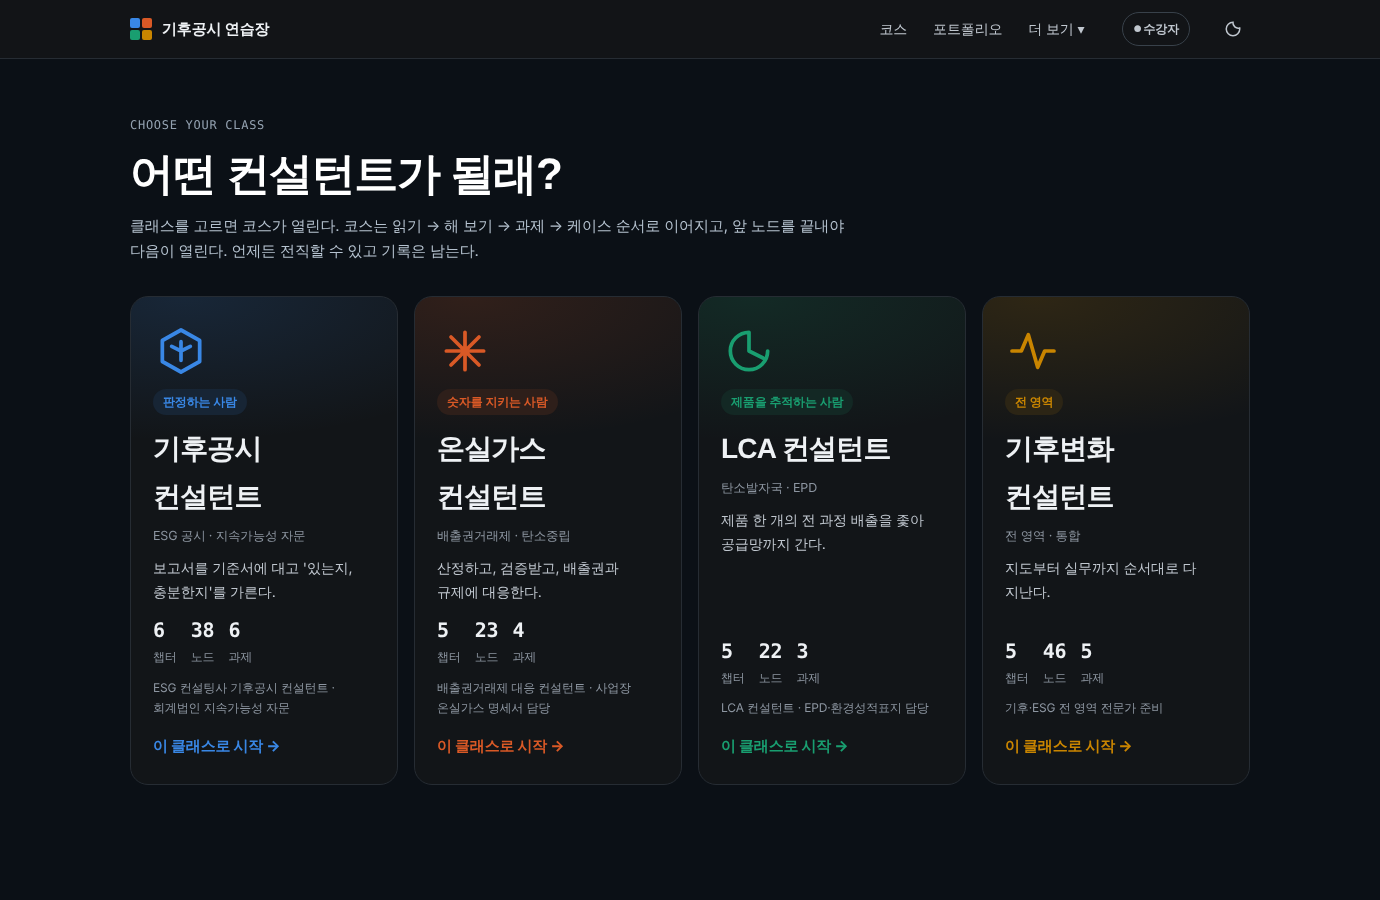
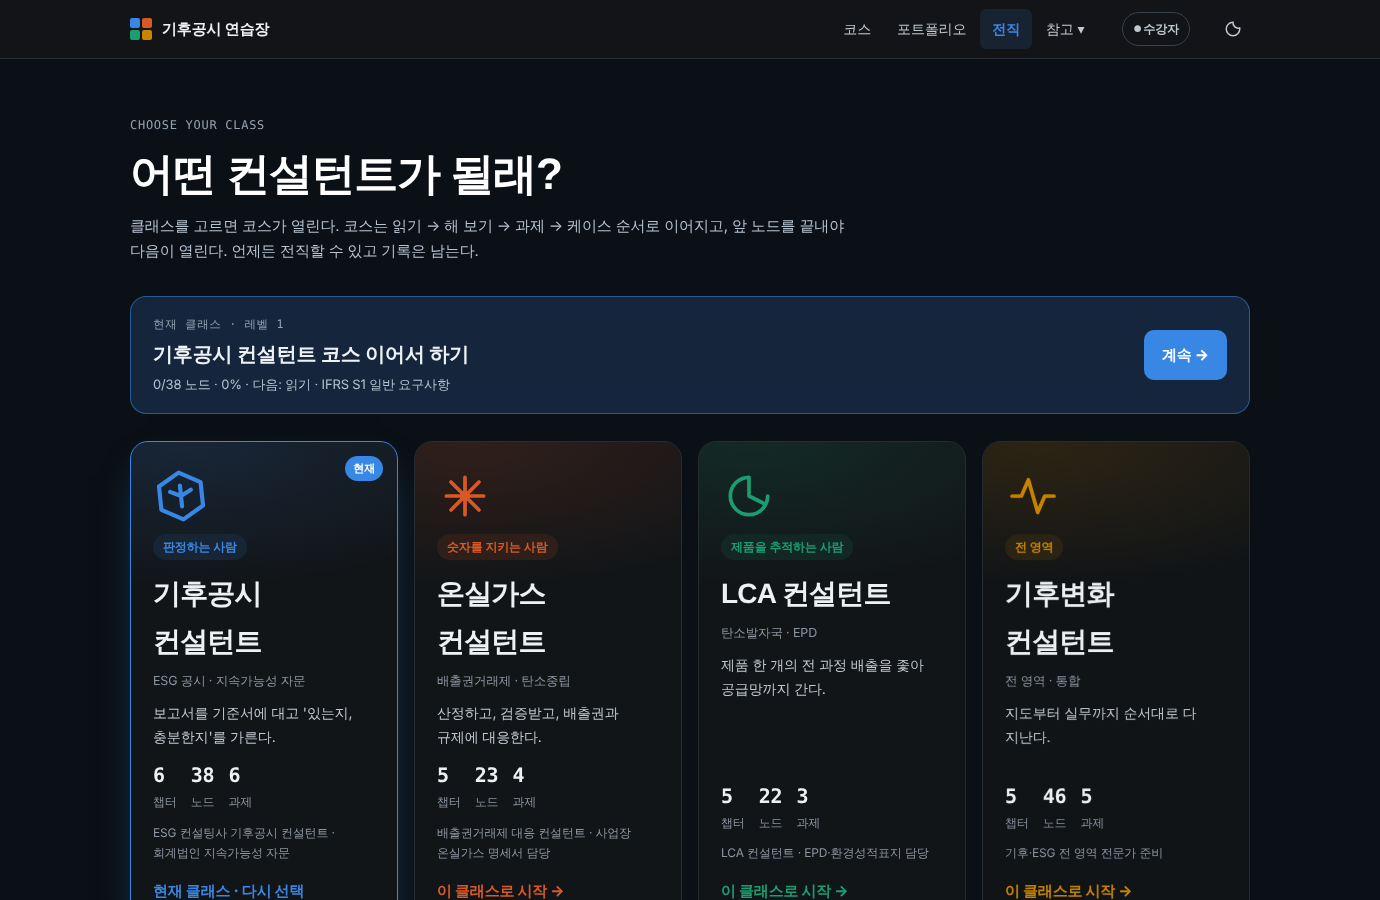
타이틀 화면: 매 실행마다 전직 화면부터, 현재 클래스 '이어서 하기' 배너, 테마 1회 다크 리셋
Claude-Session: https://claude.ai/code/session_01QfzZerYVY9dHF8QkrXZcvs

diff --git a/src/page.html b/src/page.html
@@ -332,7 +332,7 @@ function reveal(){
   document.querySelectorAll(".rv:not(.in)").forEach(n=>revealObs.observe(n));
 }
 function theme(){const r=document.documentElement,c=r.getAttribute("data-theme");const dark=c?c==="dark":matchMedia("(prefers-color-scheme: dark)").matches;r.setAttribute("data-theme",dark?"light":"dark");try{localStorage.setItem("cd-theme",dark?"light":"dark")}catch(e){}}
-$("#tog").onclick=theme;try{const t=localStorage.getItem("cd-theme");document.documentElement.setAttribute("data-theme",t||"dark")}catch(e){document.documentElement.setAttribute("data-theme","dark")}
+$("#tog").onclick=theme;try{let t=localStorage.getItem("cd-theme");if(!localStorage.getItem("cd-theme-v44")){t="dark";localStorage.setItem("cd-theme","dark");localStorage.setItem("cd-theme-v44","1")}document.documentElement.setAttribute("data-theme",t||"dark")}catch(e){document.documentElement.setAttribute("data-theme","dark")}
 
 /* ---------- LEARN ---------- */
 const GORDER=["map","std","meas","reg","prac","co"];
@@ -810,8 +810,9 @@ function nodeById(id){for(const tid in COURSES)for(const ch of COURSES[tid])for(
 /* ---- class pick ---- */
 function startView(){
   const box=$("#startBox");
-  box.innerHTML=`<div class="classes">${TRACKS.map((T,i)=>{const C=COURSES[T.id]||[];const nn=C.reduce((a,c)=>a+c.nodes.length,0);const na=C.reduce((a,c)=>a+c.nodes.filter(n=>n.t==="assign").length,0);const M=CLASS_META[T.id];
-    return `<button type="button" class="cls" data-t="${T.id}" style="--c:${classColor(T.id)};--i:${i}"><svg viewBox="0 0 24 24" fill="none" stroke="currentColor" stroke-width="1.6" stroke-linecap="round" stroke-linejoin="round"><path d="${M.icon}"/></svg><span class="tag">${esc(M.tag)}</span><h3>${esc(T.name)}</h3><span class="alias">${esc(T.alias||"")}</span><p>${esc(M.blurb)}</p><div class="st"><span><b>${C.length}</b>챕터</span><span><b>${nn}</b>노드</span><span><b>${na}</b>과제</span></div><span class="jl">${T.jobs.slice(0,2).map(j=>esc(j)).join(" · ")}</span><span class="go">이 클래스로 시작 →</span></button>`}).join("")}</div>`;
+  const T0=TRACK();const st0=T0?courseState(T0.id):null;
+  box.innerHTML=(T0?`<a class="cont" href="#course" style="--c:${classColor(T0.id)}"><span class="k">현재 클래스 · 레벨 ${st0.level}</span><b>${esc(T0.name)} 코스 이어서 하기</b><span class="s">${st0.done}/${st0.total} 노드 · ${Math.round(st0.done/st0.total*100)}%${st0.cur?` · 다음: ${NODE_NAME[st0.cur.node.t]} · ${esc(st0.cur.node.name)}`:""}</span><span class="go">계속 →</span></a>`:"")+`<div class="classes">${TRACKS.map((T,i)=>{const C=COURSES[T.id]||[];const nn=C.reduce((a,c)=>a+c.nodes.length,0);const na=C.reduce((a,c)=>a+c.nodes.filter(n=>n.t==="assign").length,0);const M=CLASS_META[T.id];
+    return `<button type="button" class="cls" data-t="${T.id}" style="--c:${classColor(T.id)};--i:${i}"><svg viewBox="0 0 24 24" fill="none" stroke="currentColor" stroke-width="1.6" stroke-linecap="round" stroke-linejoin="round"><path d="${M.icon}"/></svg><span class="tag">${esc(M.tag)}</span><h3>${esc(T.name)}</h3><span class="alias">${esc(T.alias||"")}</span><p>${esc(M.blurb)}</p><div class="st"><span><b>${C.length}</b>챕터</span><span><b>${nn}</b>노드</span><span><b>${na}</b>과제</span></div><span class="jl">${T.jobs.slice(0,2).map(j=>esc(j)).join(" · ")}</span><span class="go">${S.track===T.id?"현재 클래스 · 다시 선택":"이 클래스로 시작 →"}</span>${S.track===T.id?`<span class="now">현재</span>`:""}</button>`}).join("")}</div>`;
   document.querySelectorAll(".cls").forEach(b=>b.onclick=()=>{document.querySelectorAll(".cls").forEach(x=>x.classList.add(x===b?"picked":"faded"));setTimeout(()=>{S.track=b.dataset.t;S.v42=true;S.mode="learner";S.xpSeen=0;save();applyAccent();applyMode();go("course")},650)});
 }
 function applyAccent(){const t=TRACKS.find(x=>x.id===S.track);const r=document.documentElement;if(!t){r.style.removeProperty("--acc");r.removeAttribute("data-class");return}r.setAttribute("data-class",t.id);r.style.setProperty("--acc",classColor(t.id))}
@@ -1075,9 +1076,9 @@ function go(v){if(location.hash!=="#"+v)location.hash=v;else route()}
 function route(){
   const h=(location.hash||"").slice(1);const dash=h.indexOf("-");const base=dash>0?h.slice(0,dash):h;const rest=dash>0?h.slice(dash+1):"";
   view=VIEWS.includes(base)?base:"home";sub=rest;
-  if(view==="home")view=S.track?"course":"start";
+  if(view==="home")view="start";
   if(view==="drill"){startDrill(sub);view="practice"}else if(view!=="practice")drill=null;
-  if((!S.track||!S.v42)&&!["start","about","map","glossary"].includes(view))view="start";
+  if(!S.track&&!["start","about","map","glossary"].includes(view))view="start";
   if(view==="practice"&&MOD[sub]&&!MOD[sub].missing){mod=sub;flv=0;draft={}}
   if(view==="lesson"&&!MOD[sub])view="learn";
   VIEWS.forEach(k=>{const el=$("#v-"+k);if(!el)return;el.hidden=k!==view;if(k===view){el.classList.remove("enter");void el.offsetWidth;el.classList.add("enter")}});

diff --git a/src/v3.css b/src/v3.css
@@ -430,3 +430,9 @@ code{font-family:var(--mono);font-size:12.5px;background:var(--bg2);padding:1px 
 .pf .del{all:unset;cursor:pointer;margin-left:8px;padding:0 6px;border-radius:4px;color:var(--muted);font-size:12px}
 .pf .del:hover{background:var(--bad-bg);color:var(--bad)}
 .toast #undo{all:unset;cursor:pointer;margin-left:10px;padding:2px 8px;border-radius:4px;background:var(--mark);color:var(--mark-ink);font-weight:700;font-size:12px}
+.cont{display:grid;grid-template-columns:minmax(0,1fr) auto;gap:2px 16px;align-items:center;margin:26px 0 6px;padding:18px 22px;border-radius:16px;background:color-mix(in srgb,var(--c) 14%,#0f1620);border:1px solid color-mix(in srgb,var(--c) 55%,transparent);text-decoration:none;color:#eef2f6;animation:cin .5s both}
+.cont .k{font-family:var(--mono);font-size:11.5px;color:#93a1b0;letter-spacing:.06em;grid-column:1}
+.cont b{font-size:20px;grid-column:1}
+.cont .s{font-size:13px;color:#b5c2cf;grid-column:1}
+.cont .go{grid-column:2;grid-row:1/4;background:var(--c);color:#fff;font-weight:800;padding:12px 18px;border-radius:10px}
+.cls .now{position:absolute;top:14px;right:14px;background:var(--c);color:#fff;font-size:11px;font-weight:800;padding:3px 8px;border-radius:999px}
